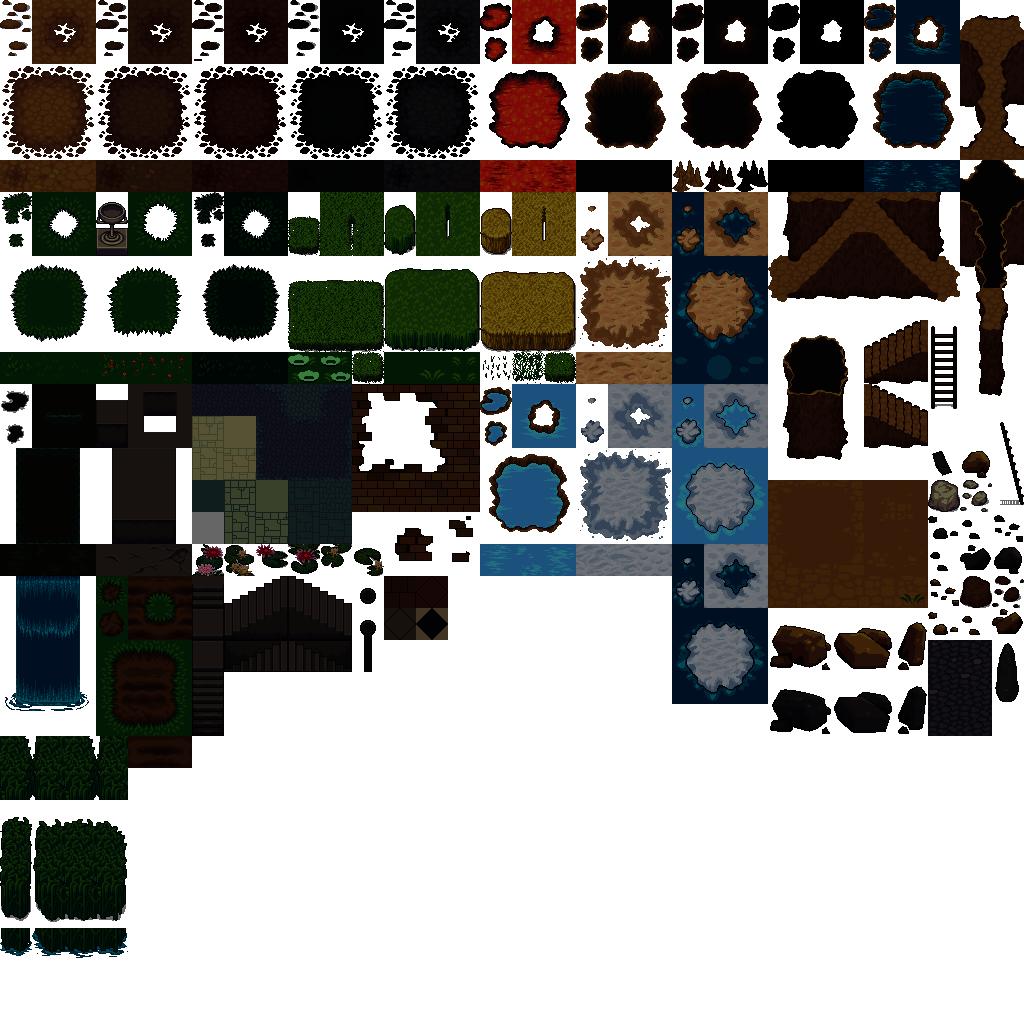
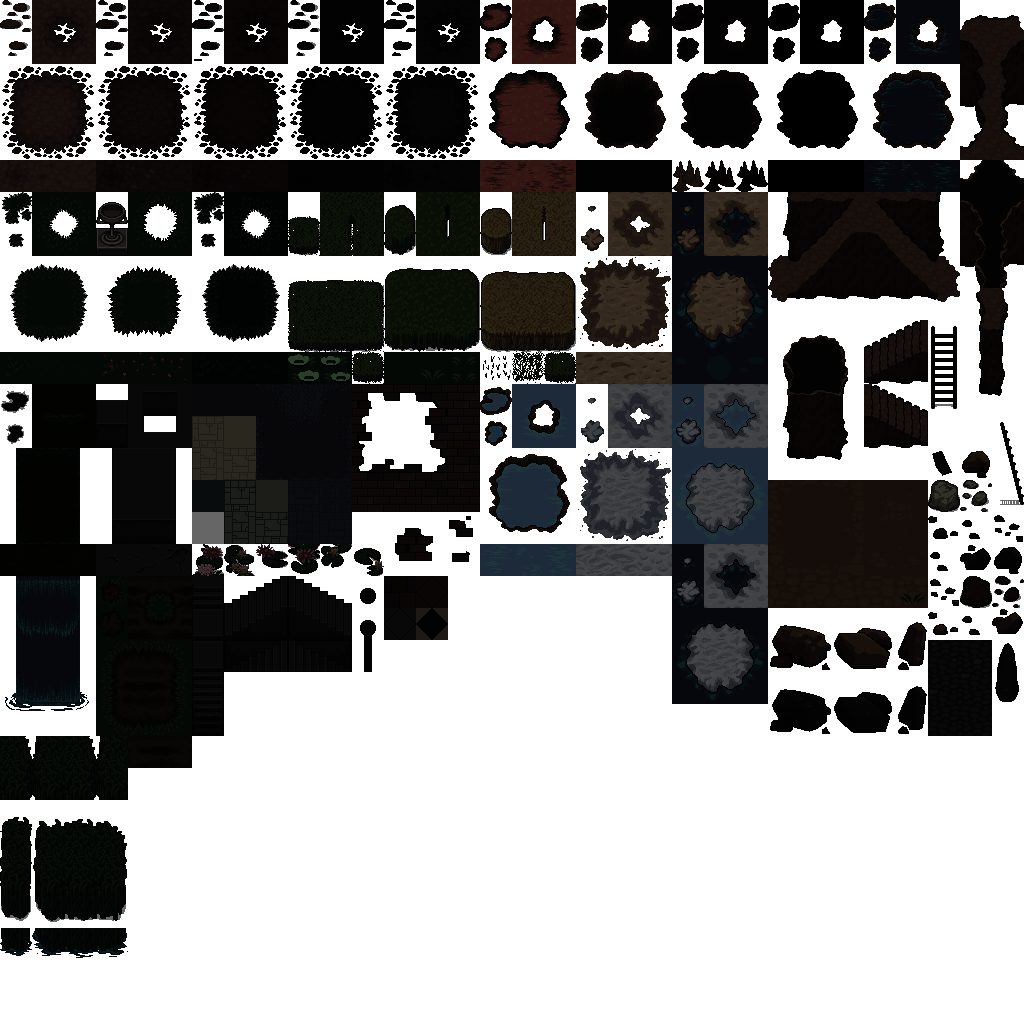
add: darker mood

diff --git a/Slenderman/sprites.py b/Slenderman/sprites.py
@@ -258,7 +258,7 @@ class Block(pygame.sprite.Sprite):
         self.width = TILESIZE
         self.height = TILESIZE
 
-        self.image = self.game.terrain_spritesheet.get_sprite(960, 448, self.width, self.height)
+        self.image = self.game.terrain_spritesheet.get_sprite(352, 352, self.width, self.height)
 
         self.rect = self.image.get_rect()
 

diff --git a/Slenderman/config.py b/Slenderman/config.py
@@ -1,5 +1,5 @@
-WIN_WIDTH = 640
-WIN_HEIGHT = 480
+WIN_WIDTH = 620
+WIN_HEIGHT = 465
 TILESIZE = 31
 FPS = 60
 
